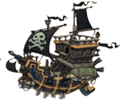
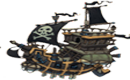
la tortuga ninja se comio el big mac

diff --git a/public/javascripts/StrategyManager.js b/public/javascripts/StrategyManager.js
@@ -28,8 +28,13 @@ function init() {
     grid.x = 0;
     grid.y = 20;
     grid.scale =1;
+    var metal = new Bitmap(g_ResourceManager.metal);
+    metal.x = 0;
+    metal.y = 20;
+    metal.scale =1;
 	container = new Container();
 
+    stage.addChild(metal);
     stage.addChild(grid);
     stage.addChild(container);
 
@@ -49,11 +54,11 @@ function startupShips(ships){
      	 bitmap.y = 100;
      	 bitmap.regX = bitmap.image.width/2|0;
      	 bitmap.regY = bitmap.image.height/2|0;
-     	 if(ships[i].src == "/assets/images/ship4good.png") {
-     	 bitmap.regY = 0;
-         }
+         if(ships[i].name == "ship4good" || ships[i].name == "ship3good")  bitmap.offset = bitmap.image.height;
+
+
          bitmap.scale =1;
-         bitmap.name = "ship_"+(i+1);
+         bitmap.name = ships[i].name;
 
 
      		// wrapper function to provide scope for the event handlers:
@@ -68,12 +73,26 @@ function startupShips(ships){
      				evt.onMouseMove = function(ev) {
      					target.x = ev.stageX+offset.x;
      					target.y = ev.stageY+offset.y;
+     				if(target.rotation == 0){
      					if((target.x - target.regX)<0)target.x = target.regX;
      					if((target.y - target.regY)<0)target.y = target.regY;
+                        if((target.y + target.regY)>420)target.y = 420-target.regY
+     				}else{
+     				   if((target.x - target.regY)<0)target.x = target.regY;
+                       if((target.y - target.regX)<0)target.y = target.regX;
+                       if((target.y + target.regX)>420)target.y = 420-target.regX
+     				}
+
      					// indicate that the stage should be updated on the next tick:
      					update = true;
      				}
      			}
+     			bitmap.onDoubleClick = function() {
+                   var rot = target.rotation;
+                   if(rot == 0)target.rotation = 90;
+                   if(rot == 90)target.rotation = 0;
+                   update = true;
+                }
      			bitmap.onMouseOver = function() {
      				target.scaleX = target.scaleY = target.scale*1.2;
      				update = true;
@@ -106,10 +125,22 @@ function getChildrenPos(){
 function parsePositions(children){
     for(var i = 0 ; i<children.length; i++){
         var ship = children[i];
-        children[i].x = Math.floor((ship.x-ship.regX)/40);
-        children[i].y = Math.floor((ship.y-ship.regY- 20)/40);
-        if(children[i].x < 0) children[i].x =0;
-        if(children[i].y <0 ) children[i].y =0;
+     if(ship.rotation == 0){
+        ship.x = Math.round((ship.x-ship.regX)/40);
+        if(ship.offset) ship.y = Math.floor((ship.y-ship.regY - 40 + ship.offset)/40);
+        else{ ship.y = Math.round((ship.y-ship.regY - 10 )/40);}
+
+      }else{
+        ship.y = Math.round((ship.y-ship.regX- 20)/40);
+        if(ship.offset) ship.x = Math.floor((ship.x+ship.regY - ship.offset+20)/40);
+        else{ ship.x = Math.round((ship.x-ship.regY - 10 )/40);}
+      }
+
+
+       if(ship.x < 0) ship.x =0;
+       if(ship.y < 0) ship.y =0;
+       if(ship.y > 9) ship.y =9;
+       if(ship.x > 9) ship.x =9;
 
     }
 

diff --git a/public/javascripts/Level.js b/public/javascripts/Level.js
@@ -20,14 +20,45 @@ function Level()
     {
       var multiplier = 40;
       var adder = 410;
-       /* this.addVisualObject(g_ResourceManager.ship1bad, this.ship1b);
-        this.addVisualObject(g_ResourceManager.ship2bad, this.ship2b);
-        this.addVisualObject(g_ResourceManager.ship3bad, this.ship3b);
-        this.addVisualObject(g_ResourceManager.ship4bad, this.ship4b);*/
+
       for(var i = 0 ; i<ships.length; i++)  {
-        new VisualGameObject().startupVisualGameObject(ships[i].image, ((ships[i].x*multiplier)+adder),(ships[i].y*multiplier)+20,3);
+      var ship= ships[i];
+      if(ship.rotation == 0){
+        switch(ship.name){
+            case "ship1good":
+                new VisualGameObject().startupVisualGameObject(ship.image, ((ship.x*multiplier)+adder+3),(ship.y*multiplier)+15,3);
+                break;
+            case "ship2good":
+                new VisualGameObject().startupVisualGameObject(ship.image, ((ship.x*multiplier)+adder- 3),(ship.y*multiplier)+20,3);
+                break;
+            case "ship3good":
+                new VisualGameObject().startupVisualGameObject(ship.image, ((ship.x*multiplier)+adder),(ship.y*multiplier),3);
+                break;
+            case "ship4good":
+                new VisualGameObject().startupVisualGameObject(ship.image, ((ship.x*multiplier)+adder),(ship.y*multiplier)-20,3);
+                break;
+
+        }
+      }else{
+         switch(ship.name){
+           case "ship1good":
+               new VisualGameObject().startupVisualGameObject(g_ResourceManager.ship1goodr, ((ship.x*multiplier)+adder- 3),(ship.y*multiplier)+19,3);
+               break;
+           case "ship2good":
+                new VisualGameObject().startupVisualGameObject(g_ResourceManager.ship2goodr, ((ship.x*multiplier)+adder- 1),(ship.y*multiplier)+18,3);
+                break;
+           case "ship3good":
+                new VisualGameObject().startupVisualGameObject(g_ResourceManager.ship3goodr, ((ship.x*multiplier)+adder),(ship.y*multiplier)+20,3);
+                break;
+           case "ship4good":
+                new VisualGameObject().startupVisualGameObject(g_ResourceManager.ship4goodr, ((ship.x*multiplier)+adder),(ship.y*multiplier)+20,3);
+                break;
+
+             }
        }
 
+
+      }
 
 
         return this;

diff --git a/public/javascripts/GameObjectManager.js b/public/javascripts/GameObjectManager.js
@@ -150,6 +150,14 @@ function GameObjectManager()
                     {name: 'ship2bad', src: '/assets/images/ship2bad.png'},
                     {name: 'ship3bad', src: '/assets/images/ship3bad.png'},
                     {name: 'ship4bad', src: '/assets/images/ship4bad.png'},
+                    {name: 'ship1goodr', src: '/assets/images/ship1goodr.png'},
+                    {name: 'ship2goodr', src: '/assets/images/ship2goodr.png'},
+                    {name: 'ship3goodr', src: '/assets/images/ship3goodr.png'},
+                    {name: 'ship4goodr', src: '/assets/images/ship4goodr.png'},
+                    {name: 'ship1badr', src: '/assets/images/ship1badr.png'},
+                    {name: 'ship2badr', src: '/assets/images/ship2badr.png'},
+                    {name: 'ship3badr', src: '/assets/images/ship3badr.png'},
+                    {name: 'ship4badr', src: '/assets/images/ship4badr.png'},
                     {name: 'grid', src: '/assets/images/grid.png'},
                     {name: 'hit', src: '/assets/images/hit.png'},
                     {name: 'missed', src: '/assets/images/missed.png'},
@@ -157,6 +165,7 @@ function GameObjectManager()
                     {name: 'YouLose', src: '/assets/images/YouLose.jpg'},
                     {name: 'YouWin', src: '/assets/images/YouWin.png'},
                     {name: 'explosion', src: '/assets/images/explosion.png'},
+                    {name: 'metal', src: '/assets/images/metal.png'},
 
 
 

diff --git a/app/views/battleRoom.scala.html b/app/views/battleRoom.scala.html
@@ -10,23 +10,7 @@
         <strong>Oops!</strong> <span></span>
     </p>
 </div>
-<div id = "popUpBack">
 
-    <div id= "strategy">
-
-        <canvas id="strategyCanvas" width="600" height="500">
-            <p>
-            SERIOUSLY INTERNET EXPLORER?!?!?!?!?!?!?!?
-            Come on! download a real browser that has the canvas element,
-            Like Firefox ,Safari, or Chrome.
-            Peace Out Brothaaaaaa
-
-            </p>
-        </canvas>
-        <button id="strategyButton" class= "btn btn-primary" onclick="getChildrenPos()"> Who lives In a pineapple under the sea?</button>
-
-    </div>
-</div>
 <div class="row-fluid">
     <div class="span7">
         <canvas id="canvas" width="1050" height="500">
@@ -58,6 +42,23 @@
 
 
         <textarea id="talk" ></textarea>
+
+    </div>
+</div>
+<div id = "popUpBack">
+
+    <div id= "strategy">
+
+        <canvas id="strategyCanvas" width="500" height="500">
+            <p>
+                SERIOUSLY INTERNET EXPLORER?!?!?!?!?!?!?!?
+                Come on! download a real browser that has the canvas element,
+                Like Firefox ,Safari, or Chrome.
+                Peace Out Brothaaaaaa
+
+            </p>
+        </canvas>
+        <button id="strategyButton" class= "btn btn-primary" onclick="getChildrenPos()"> Who lives In a pineapple under the sea?</button>
 
     </div>
 </div>

diff --git a/public/stylesheets/main.css b/public/stylesheets/main.css
@@ -151,11 +151,12 @@ body {
     border-radius : 20px;
     box-shadow : 5px 5px 5px 3px rgba(0,0,0,0.5);
     background-color: #eee;
+    background-image:url('/assets/images/background.png');
 }
 #strategyCanvas{
      position: absolute;
-     top:50px;
-     left:10px;
+     top:70px;
+     left:100px;
  }
 #strategyButton{
     width : 200px;

diff --git a/public/javascripts/ResourceManager.js b/public/javascripts/ResourceManager.js
@@ -35,6 +35,7 @@ function ResourceManager()
 
             // assign the .src property of the Image object
             thisImage.src = images[i].src;
+            thisImage.name= images[i].name;
         }
 
         return this;
